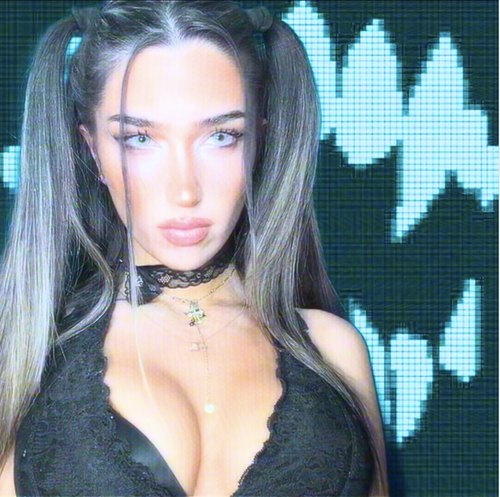
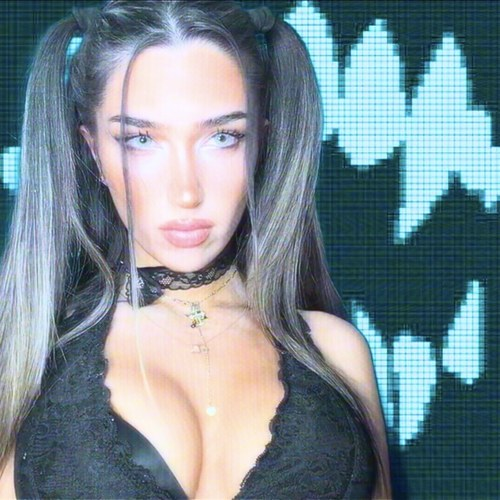
New pfp image (cache-busted so phones show it right away)
Claude-Session: https://claude.ai/code/session_01XhoiJj6S5xVb7g8FASJU9o

diff --git a/links/index.html b/links/index.html
@@ -407,7 +407,7 @@
         <img class="pin-heart" src="assets/media/pin-heart.gif" alt="" width="200" height="171">
         <div class="profile">
           <div class="pfp-col">
-            <div class="pfp-wrap"><img class="pfp" src="assets/vivi-pfp.jpg" alt="ViVi" width="500" height="497"></div>
+            <div class="pfp-wrap"><img class="pfp" src="assets/vivi-pfp.jpg?v=3" alt="ViVi" width="500" height="500"></div>
             <img class="online-now" src="assets/gg/online-now.jpg" alt="Online Now!" width="95" height="37">
           </div>
           <div class="info">
